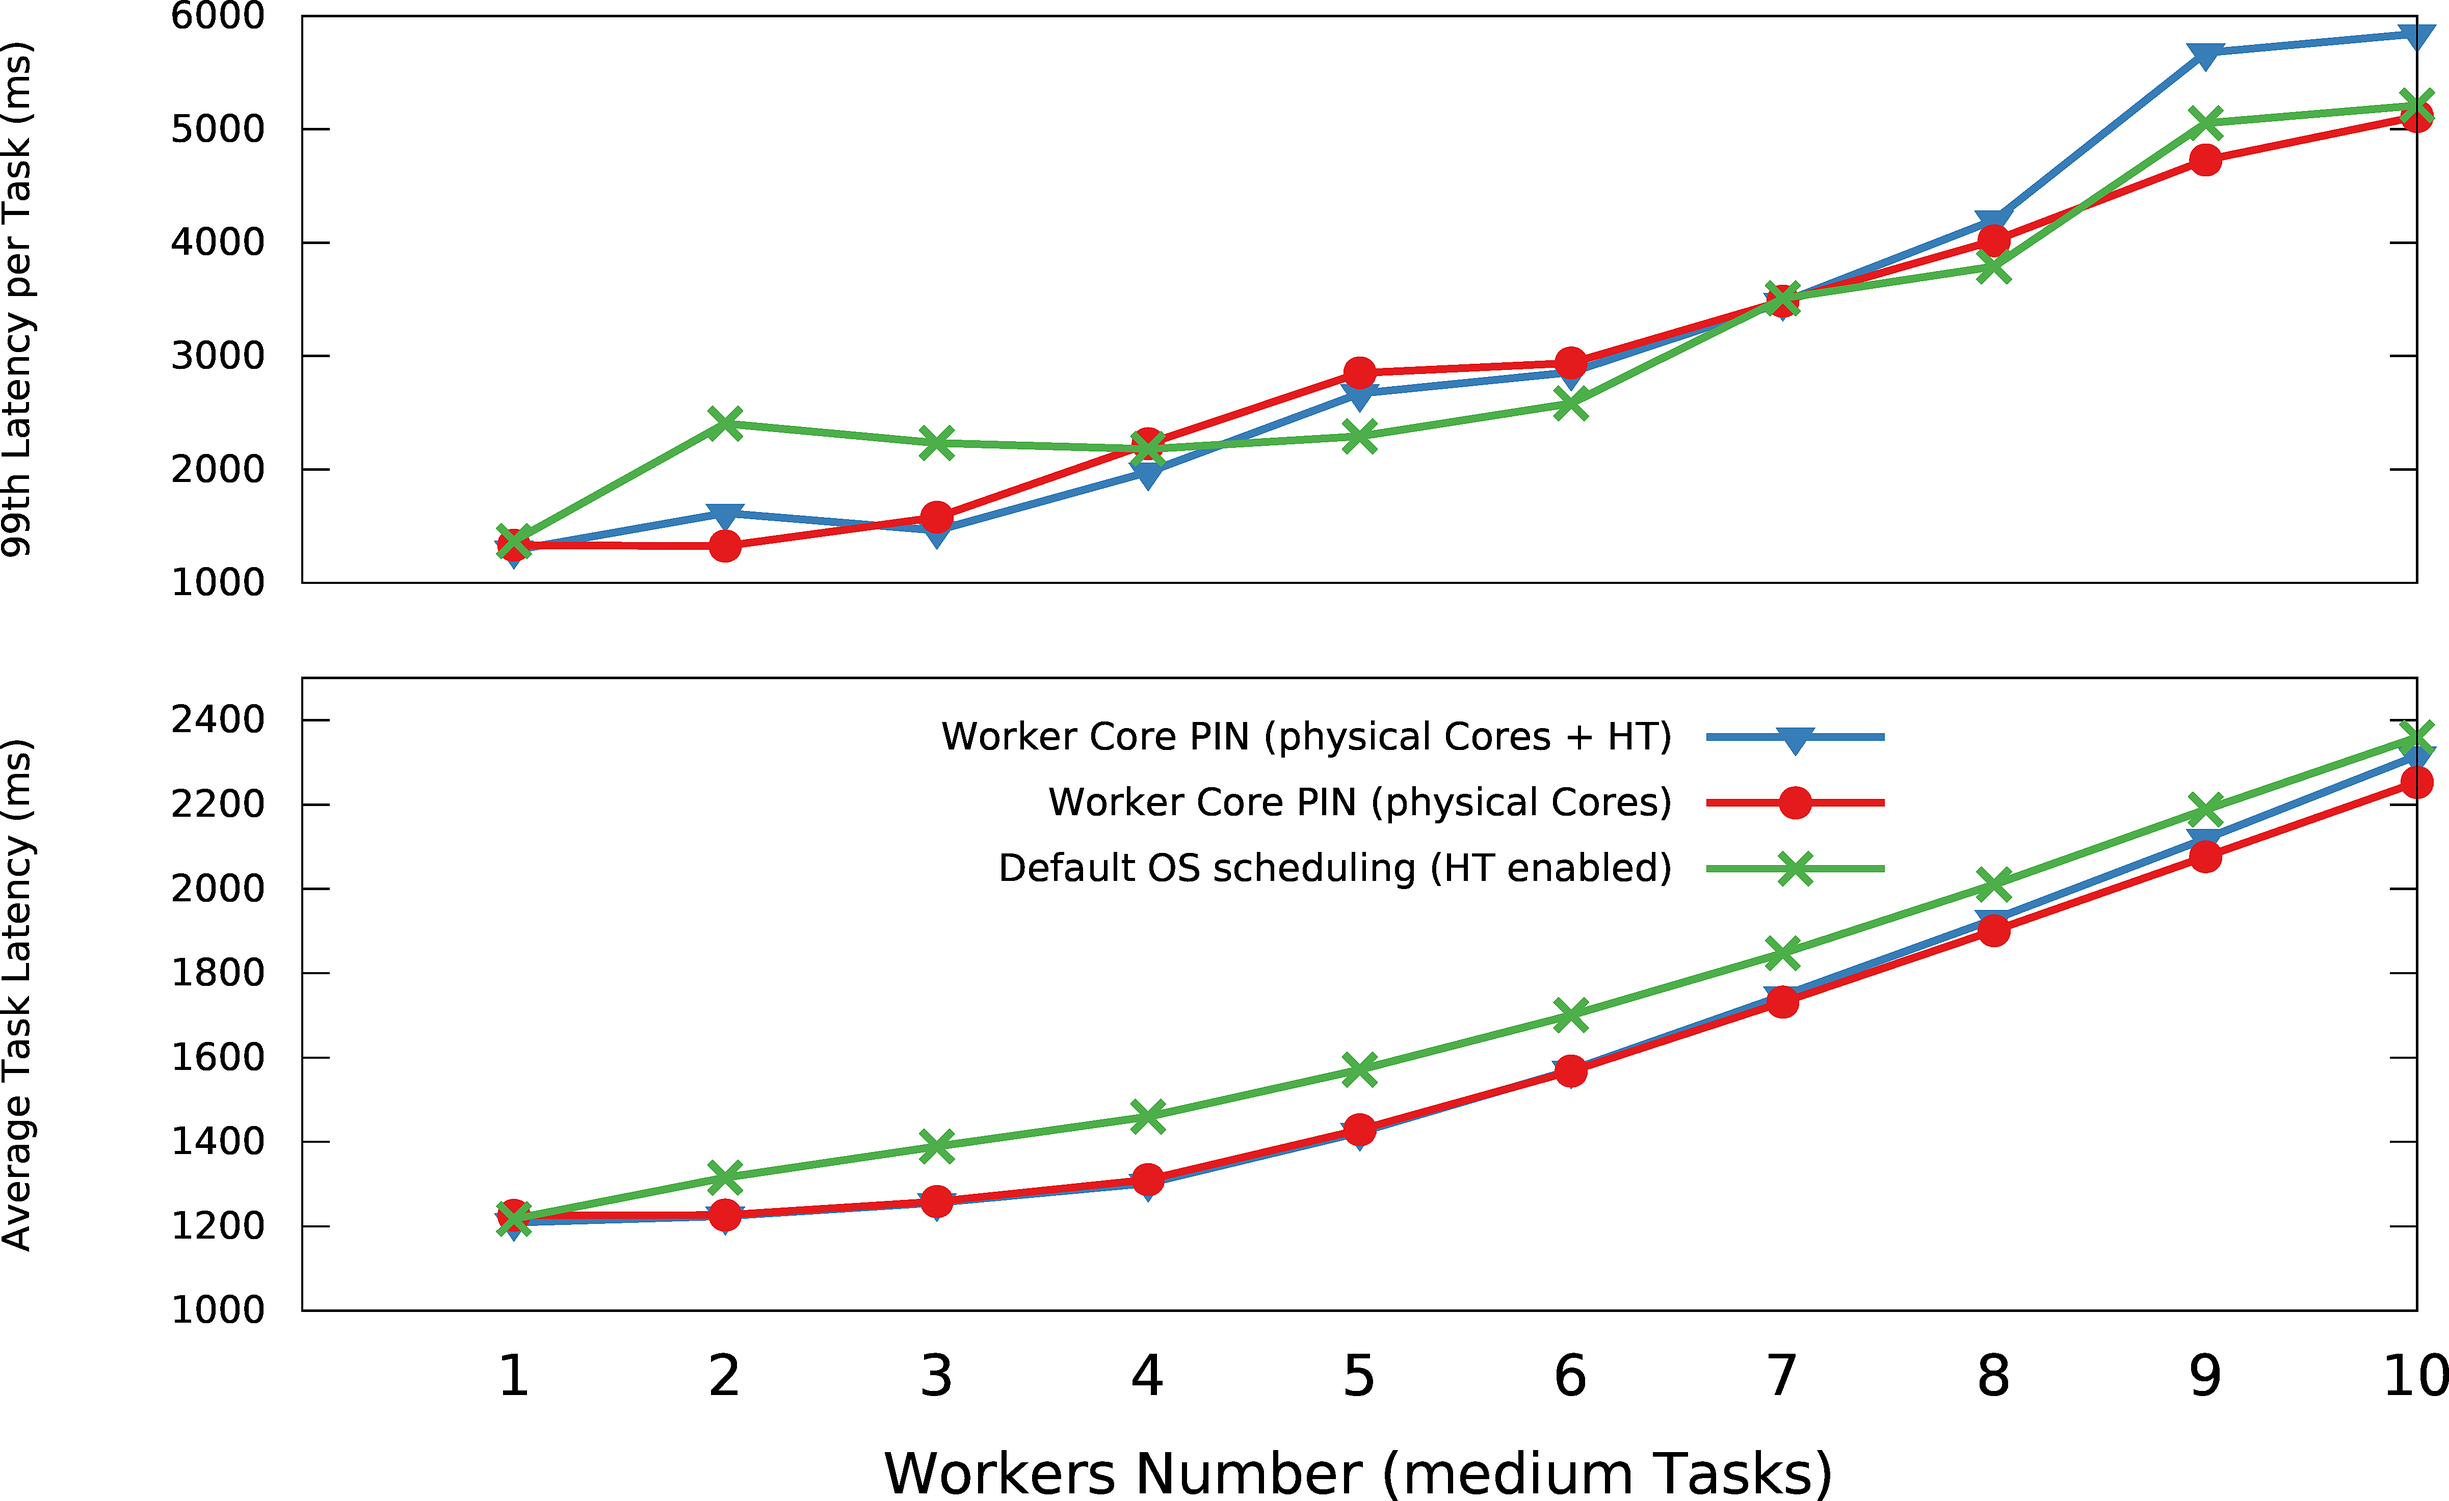
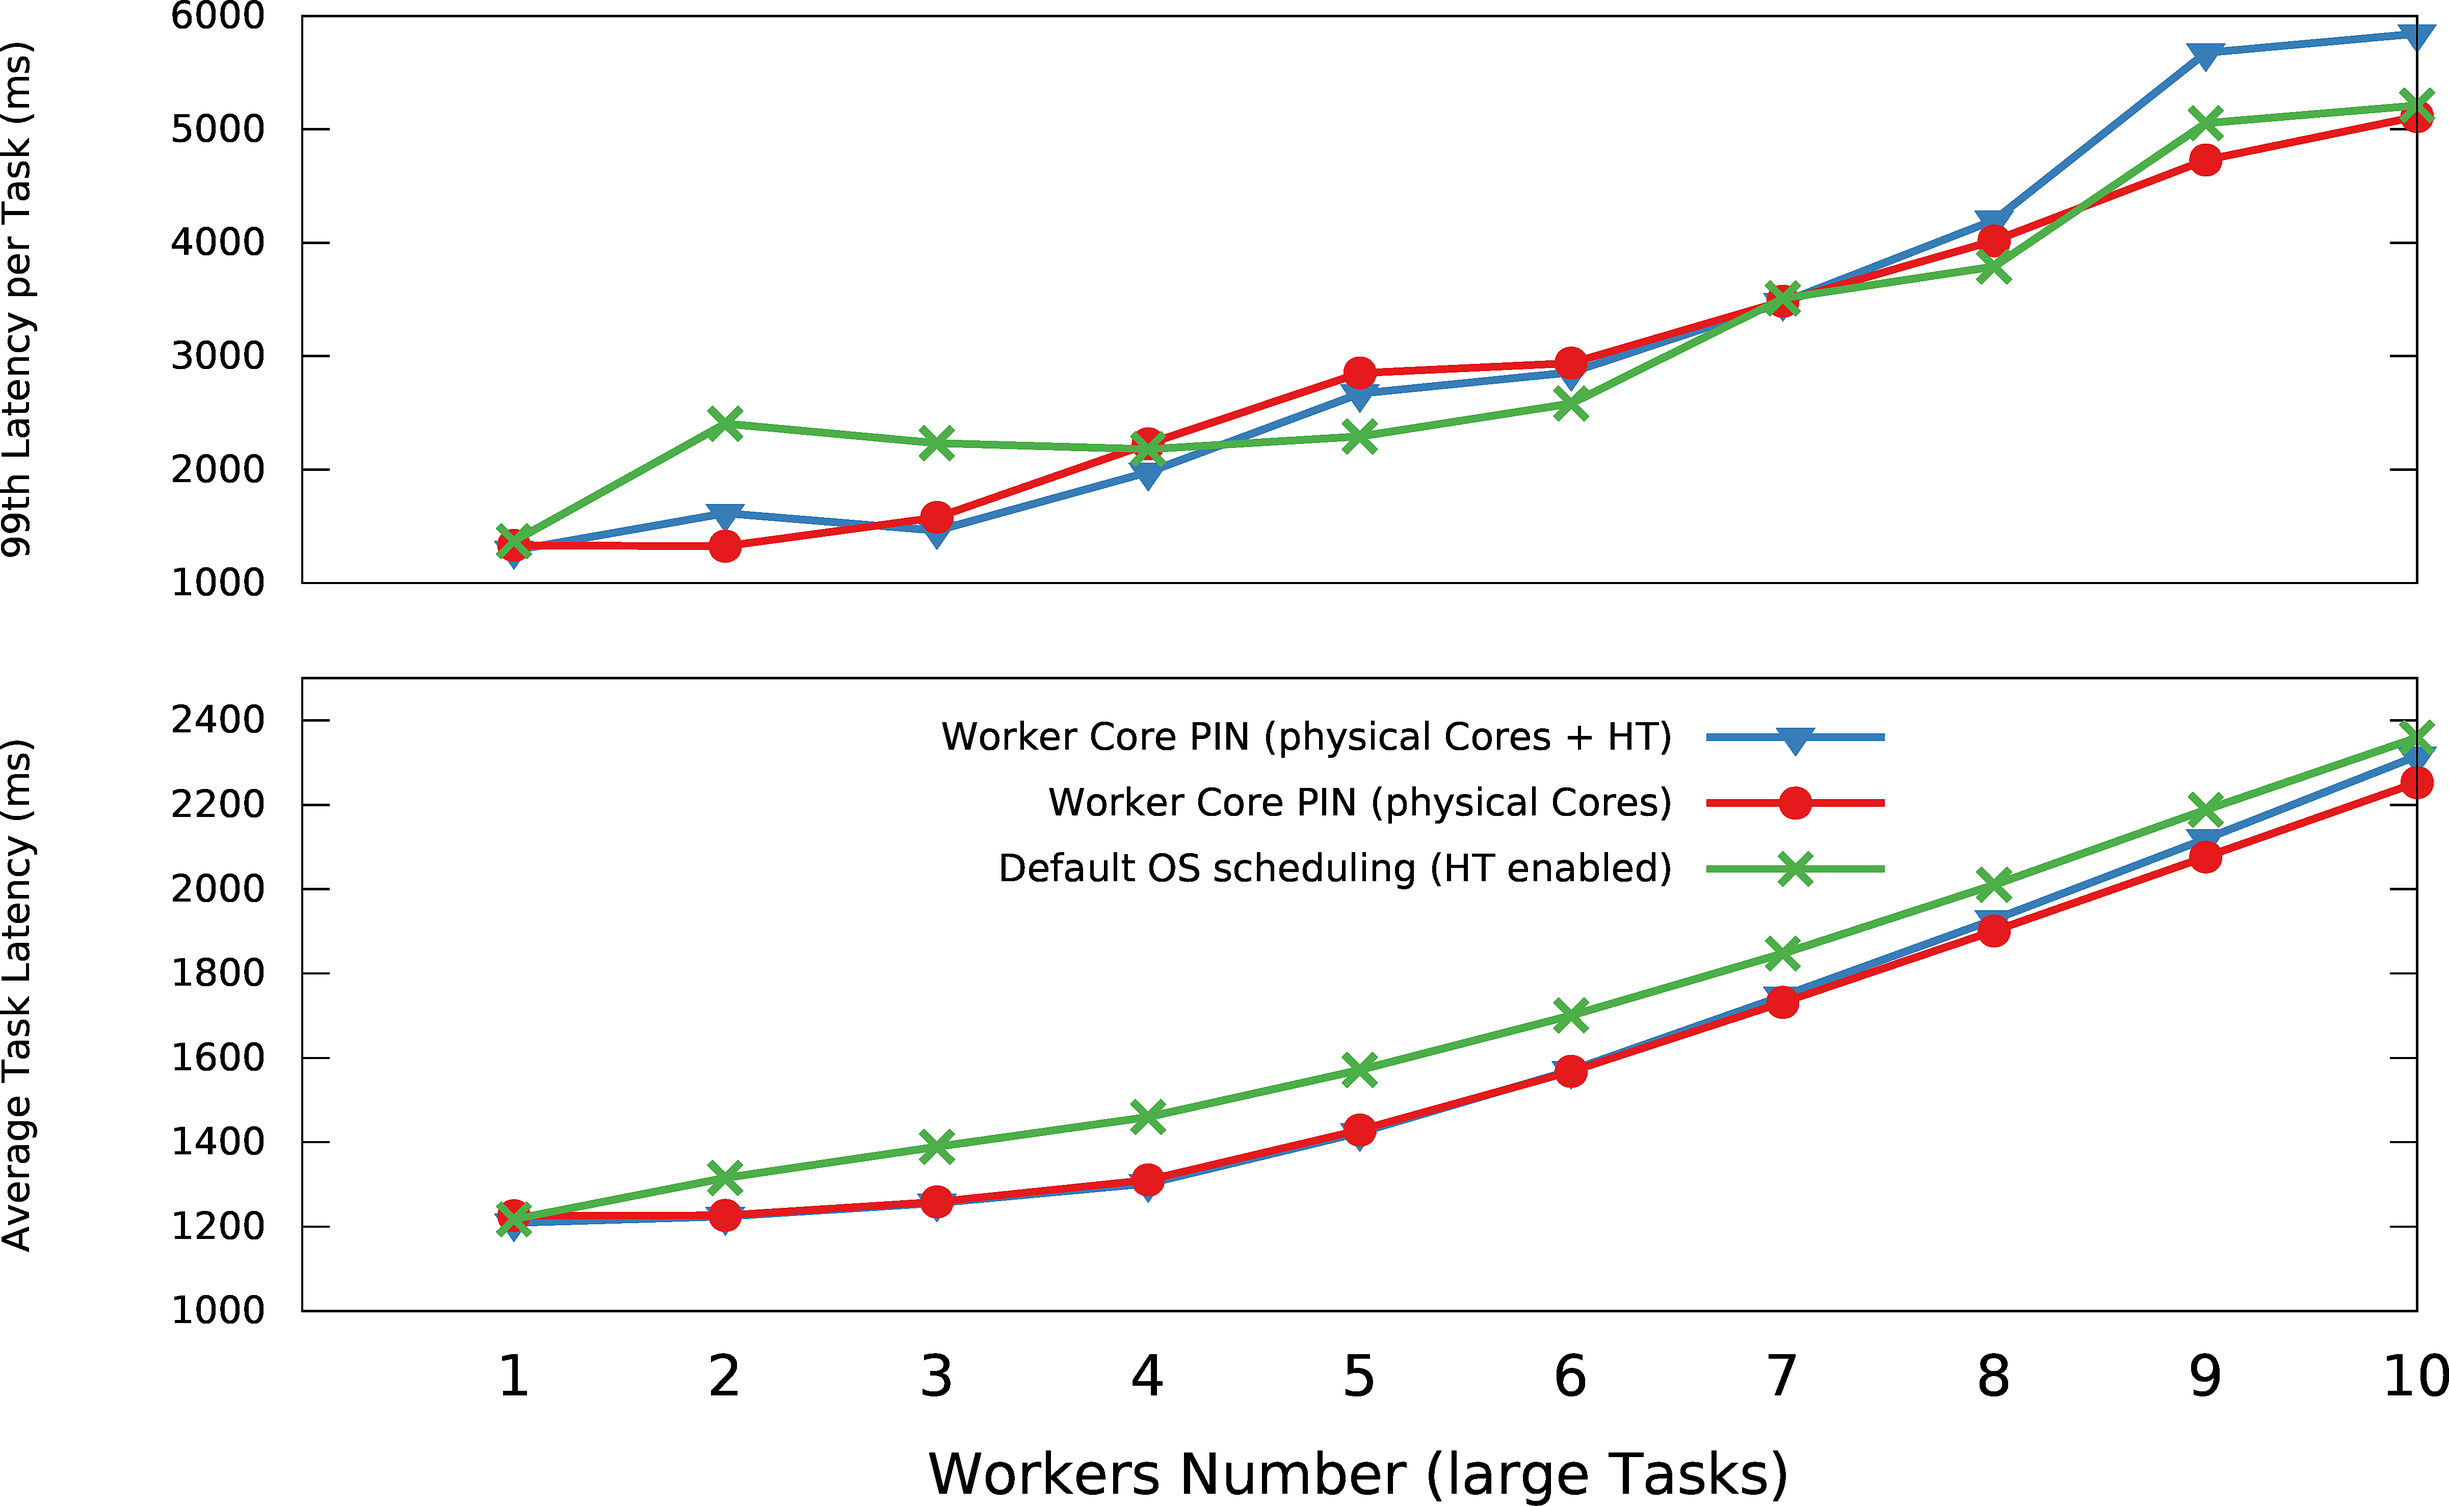
Latest graph changes and more

diff --git a/thread-affinity/src/main/java/uk/ac/imperial/lsds/thread/affinity/Utils.java b/thread-affinity/src/main/java/uk/ac/imperial/lsds/thread/affinity/Utils.java
@@ -8,10 +8,10 @@ public class Utils {
 	
 	static String PROJECT_HOME;
 	/* Experiments conf */
-	static boolean CORE_PIN = true;
-	static boolean HYPER_THREAD = false;
+	static boolean CORE_PIN = false;
+	static boolean HYPER_THREAD = true;
 	static int WORKER_THREADS = 1;
-	static int FIBONACCI_NUMBER = 20;
+	static int FIBONACCI_NUMBER = 35;
 	static int EXPERIMENT_RUNTIME = 60; // in seconds
 	/* Up to here */
 	
